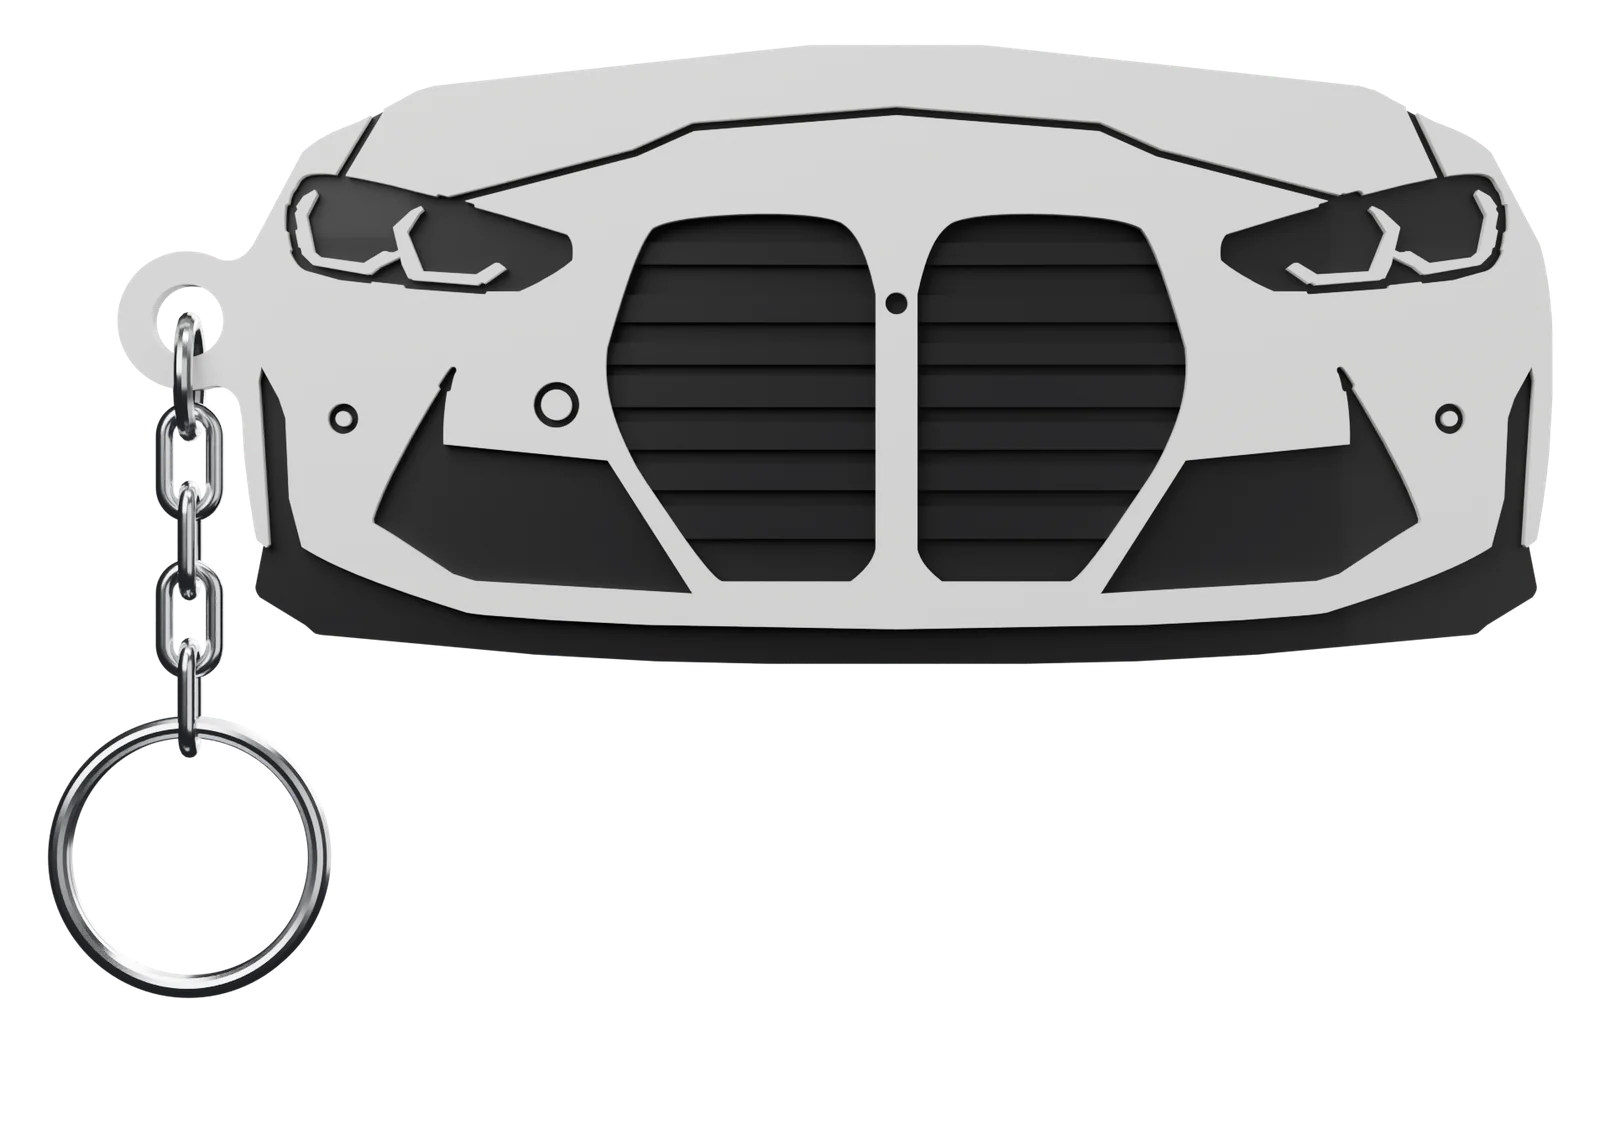
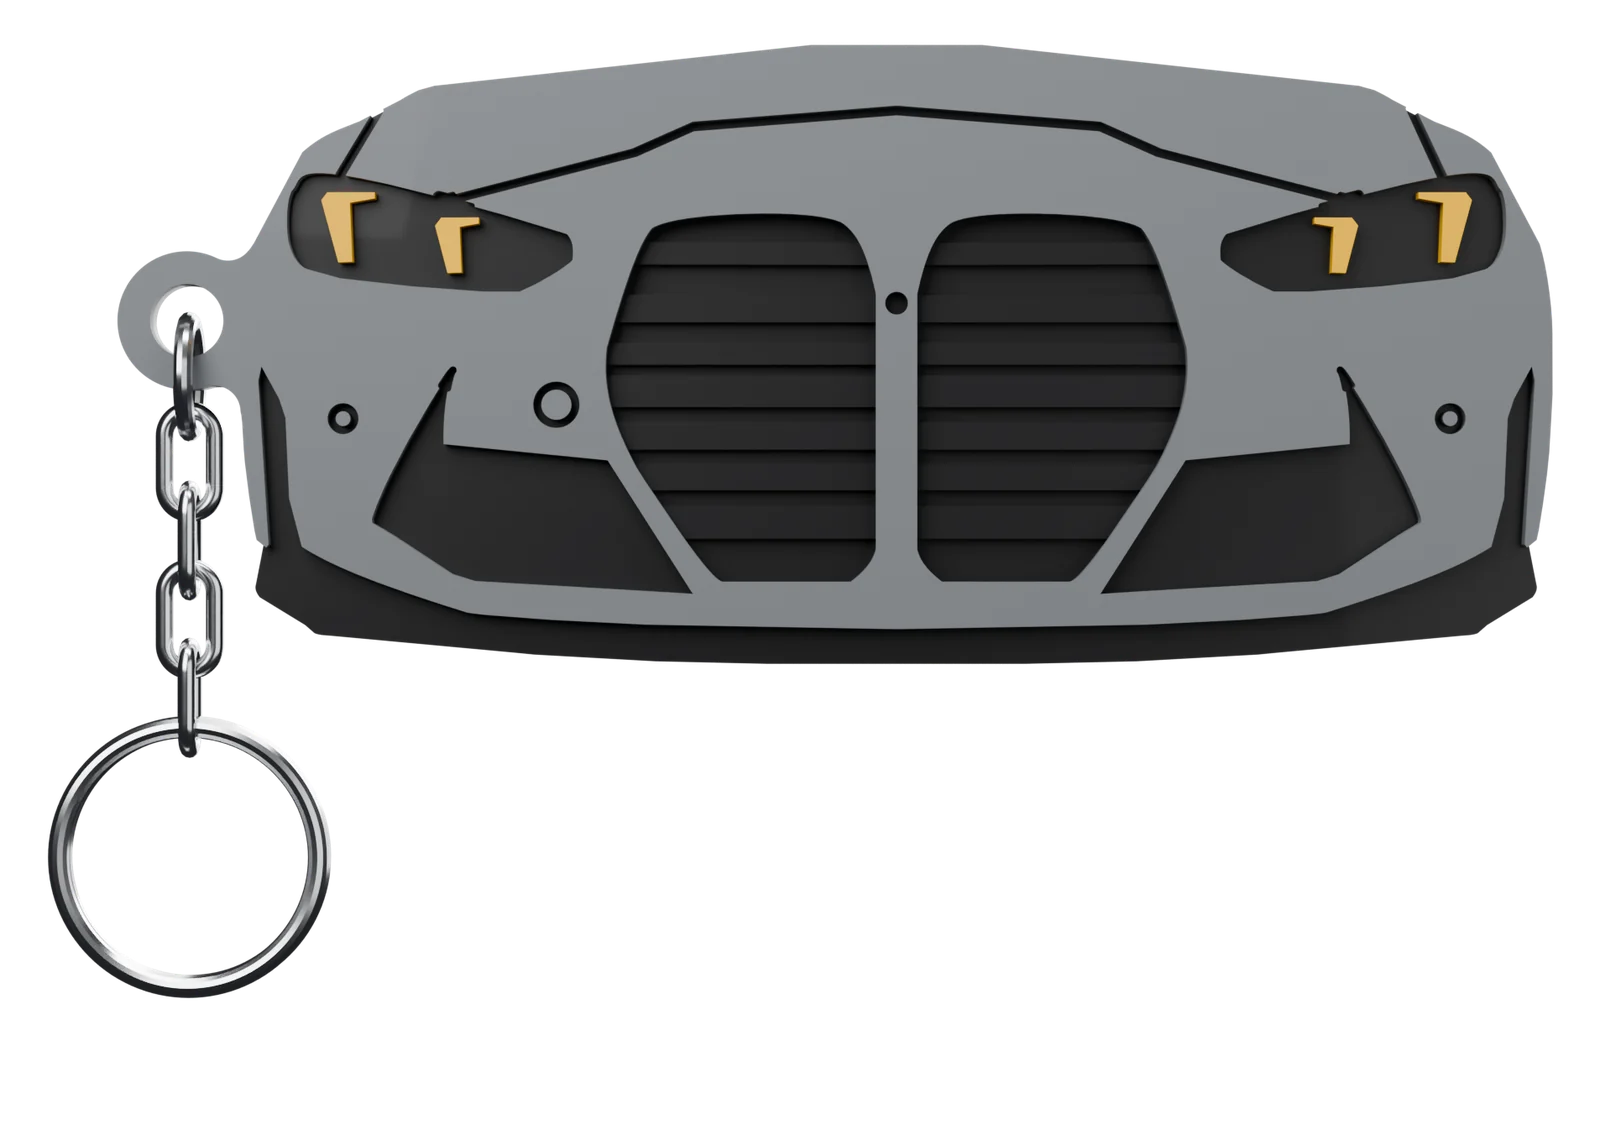
Hero: G80/G82 snake-eye front in Matte Gray with yellow headlights
- Hero product is the snake-eye keychain; the 3D keychain gets the body and headlight colours from new
  hero section settings (default Matte Gray #6f7276, Yellow #f0b70f); KeychainStage.setLights().
- Static hero image re-rendered in Blender to match (make_hero_assets: make_hero_render), same frame.
- Blender renders take an optional custom headlight colour per colour entry ('lights').
- Hero stat label "In the range".

Changed region(s): [[0.0625, 0.0308, 0.9688, 0.5551]]

diff --git a/theme/assets/hero.js b/theme/assets/hero.js
@@ -11,7 +11,10 @@ async function start3D() {
   if (!webglAvailable()) return null;
   const stage = new KeychainStage(hero.querySelector('[data-hero-3d]'), { align: hero.querySelector('[data-hero-art]'), active: false });
   try {
-    await stage.load(url);
+    const body = hero.dataset.body;
+    const metal = Number(hero.dataset.bodyMetal) || 0;
+    await stage.load(url, body ? { hex: body, metal, rough: metal > 0.3 ? 0.32 : 0.8 } : undefined);
+    if (hero.dataset.lights) stage.setLights(hero.dataset.lights);
     return stage;
   } catch (e) {
     stage.dispose();

diff --git a/theme/assets/keychain3d.js b/theme/assets/keychain3d.js
@@ -173,6 +173,12 @@ export class KeychainStage {
     if (on) { this.resize(); this._maybeRun(); }
   }
 
+  // custom headlight colour (the GLB's 'lights' material; cloned per keychain on load)
+  setLights(hex) {
+    this.root?.traverse((o) => { if (o.isMesh && o.material && o.material.name === 'lights') o.material.color.set(hex); });
+    this.render();
+  }
+
   setColor({ hex, metal = 0, rough = 0.55 }) {
     for (const m of this.materials || []) { m.color.set(hex); m.metalness = metal; m.roughness = rough; }
     this.render();

diff --git a/site/tools/make_hero_assets.py b/site/tools/make_hero_assets.py
@@ -12,13 +12,19 @@ ROOT = os.path.abspath(os.path.join(os.path.dirname(__file__), '..', '..'))
 SVG = os.path.join(ROOT, 'site', 'build', 'svg', 'g80_m3')
 THEME = os.path.join(ROOT, 'theme')
 EXT = dict(left=0.02, right=0.02, top=0.04, bottom=0.62)
+# the hero shows the G80/G82 snake-eye front in Matte Gray with yellow headlights (owner's pick); same frame as the G80.
+# Render it first: see make_hero_render() below (Blender).
+HERO_SVG = os.path.join(ROOT, 'site', 'build', 'svg', 'g80_m3_snakeeye')
+HERO_PNG = os.path.join(ROOT, 'site', 'build', 'renders_png', 'g80_m3_snakeeye__gray-yellow__front-chain.png')
 
 
 def main():
-    drl = open(os.path.join(SVG, 'drl.svg')).read()
+    drl = open(os.path.join(HERO_SVG, 'drl.svg')).read()
     vb = re.search(r'viewBox="([^"]+)"', drl).group(1)   # the G80 frame the hero box is built on
     x0, y0, w_mm, h_mm = map(float, vb.split())        # viewBox already includes the 1 mm margin
-    im = Image.open(os.path.join(ROOT, 'site', 'build', 'renders_png', 'g80_m3__white__front-chain.png')).convert('RGBA')
+    if not os.path.exists(HERO_PNG):
+        make_hero_render()
+    im = Image.open(HERO_PNG).convert('RGBA')
     a = np.array(im)[..., 3] > 16
     rows = np.where(a.any(1))[0]
     cols = np.where(a.any(0))[0]
@@ -39,6 +45,22 @@ def main():
     canvas = canvas.resize((w, round(canvas.height * w / canvas.width)), Image.LANCZOS)
     canvas.save(os.path.join(THEME, 'assets', 'hero-g80.webp'), quality=86, method=6)
     print('hero-g80.webp', canvas.size)
+
+
+def make_hero_render():
+    """Blender: the snake-eye front with its chain, Matte Gray body, Yellow headlights (colours from launch.json)."""
+    import json, subprocess, tempfile
+    L = json.load(open(os.path.join(ROOT, 'site', 'catalog', 'launch.json')))
+    gray = next(c for c in L['colors'] if c['name'] == 'Matte Gray')
+    yellow = next(h for h in L['headlights']['values'] if h['name'] == 'Yellow')
+    col = dict(gray, slug='gray-yellow', lights=yellow['hex'])
+    job = dict(id='hero', glb=os.path.join(ROOT, 'site', 'build', 'glb_raw', 'g80_m3_snakeeye.glb'), samples=160, size=2000,
+               exposure=0.26, views=[dict(angle=0.0, chain=True, colors=[col], out=HERO_PNG.replace('gray-yellow', '{slug}'))])
+    with tempfile.NamedTemporaryFile('w', suffix='.json', delete=False) as f:
+        json.dump(job, f)
+    blender = os.environ.get('BLENDER', r'C:\Program Files\Blender Foundation\Blender 5.2lender.exe')
+    subprocess.run([blender, '--background', '--factory-startup', '--python',
+                    os.path.join(ROOT, 'site', 'tools', 'blender_render.py'), '--', f.name], check=True, capture_output=True)
 
 
 def detail_assets():

diff --git a/site/tools/blender_render.py b/site/tools/blender_render.py
@@ -249,5 +249,7 @@ for v in job['views']:
         if c and body_obj:
             body_obj.data.materials.clear(); body_obj.data.materials.append(body_material(c))
             saved[body_obj.name] = list(body_obj.data.materials)
+        lb = lights.node_tree.nodes['Principled BSDF'].inputs['Base Color']   # optional custom headlight colour
+        lb.default_value = hex_lin(c['lights']) if c and c.get('lights') else (0.9, 0.9, 0.88, 1)
         render(v['out'].format(slug=c['slug']) if c else v['out'])
 print('BLENDER_DONE', job['id'])
